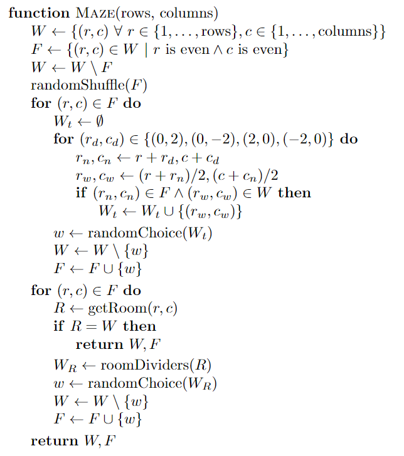
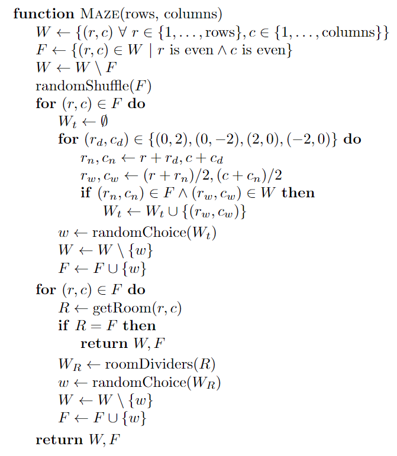
Fixing a typo in the Maze algorithm and adding some documentation about replay files.

Changed region(s): [[0.0, 0.0, 0.9975, 0.9825]]

diff --git a/lecture/pseudocode.tex b/lecture/pseudocode.tex
@@ -89,7 +89,7 @@
 
         \For{$(r, c) \in F$}
             \State $R \gets \text{getRoom}(r, c)$
-            \If{$R = W$}
+            \If{$R = F$}
                 \State \Return $W, F$
             \EndIf
             \State $W_R \gets \text{roomDividers}(R)$

diff --git a/src/postgrad/__init__.py b/src/postgrad/__init__.py
@@ -1,4 +1,4 @@
-"""PostGrad video game.
+"""The PostGrad video game.
 
 These files, in addition with the README, act as lecture notes and a
 revision aid for the Tripos. Some files are not in scope for the Tripos

diff --git a/README.md b/README.md
@@ -426,3 +426,58 @@ The end result is a maze in which each tile is reachable from every other tile, 
 ![Maze Animation](docs/maze.gif)
 
 In practice, we tailor this algorithm even further to make its support a tighter fit and reduce the rejection rate. For full details, see [this code file](src/postgrad/level_generator.py).
+
+## Replay Files
+
+The `postgrad` script has the following usage information:
+
+    usage: postgrad [-h] [-v] [-f] [-i] [-g] [-s] [-r REPLAY] [-l REPLAY_LENGTH]
+
+    options:
+    -h, --help            show this help message and exit
+    -v, --version         show program's version number and exit
+    -f, --fullscreen      Run the game in fullscreen mode
+    -i, --invulnerable    Make the grad invulnerable
+    -g, --show-goals      Show the goal tiles of the profs
+    -s, --show-state      Show the state of the game
+    -r REPLAY, --replay REPLAY
+                            Path to save the replay
+    -l REPLAY_LENGTH, --replay-length REPLAY_LENGTH
+                            Maximum length of the replay
+
+The `-r` option allows you to specify a directory where the game will write replay files. These files are NPZ archives which contain the following items:
+
+1. `seed` - A random seed
+2. `grad` - The select grad (a value from 0 to 3)
+3. `actions` - a `(N, 2)` array of integers. Each row is the step an action was taken (which is a monotonically increasing value for an entire playthrough) and the action taken, with values taken from the enumeration below.
+
+```python
+class Action(Enum):
+    """These are the actions that a sprite can take.
+
+    Note that these actions can come from player input or from the
+    faculty AI.
+    """
+    NONE = 0
+    MOVE_UP = 1
+    MOVE_DOWN = 2
+    MOVE_LEFT = 3
+    MOVE_RIGHT = 4
+```
+
+The replay can be viewed using the `postgrad_replay` tool:
+
+    usage: postgrad_replay [-h] [-v VIDEO_PATH] [-i] replay_path
+
+    Replay a game
+
+    positional arguments:
+    replay_path           Path to the replay file
+
+    options:
+    -h, --help            show this help message and exit
+    -v VIDEO_PATH, --video_path VIDEO_PATH
+                            Path to the video file
+    -i, --invulnerable    Make the grad invulnerable
+
+You can use this to test whether a replay file you have produced is valid.
